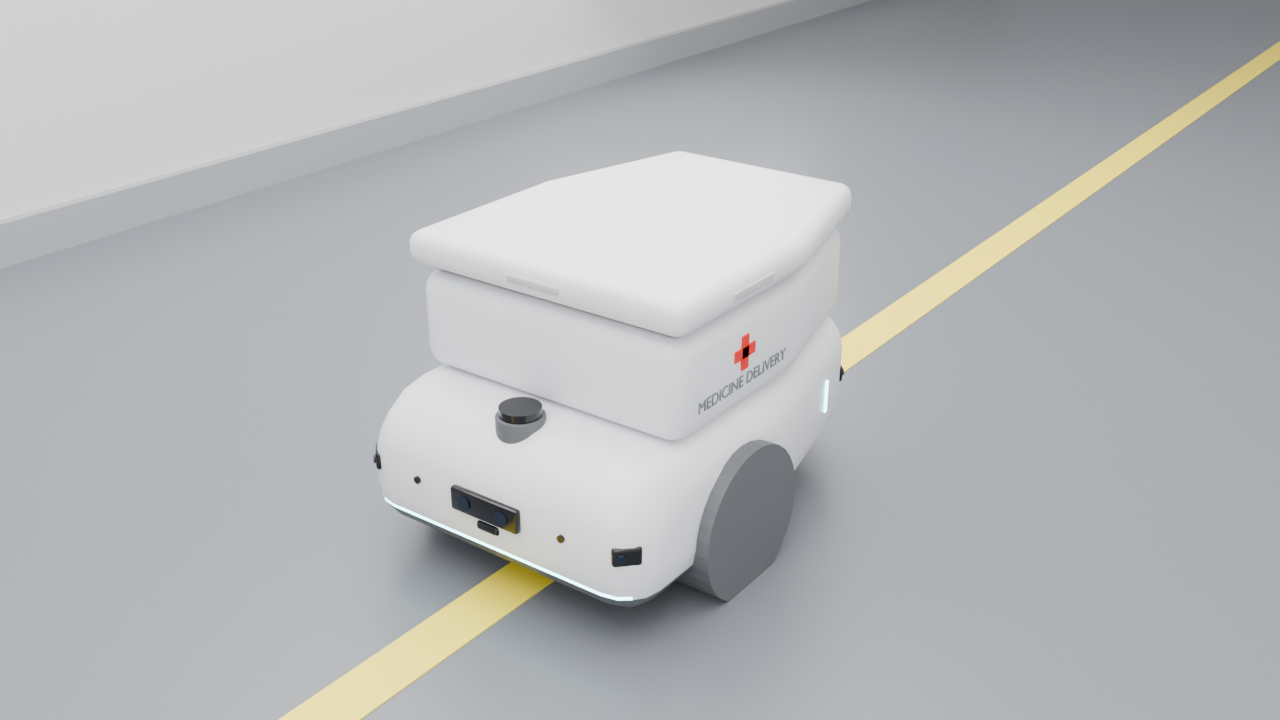
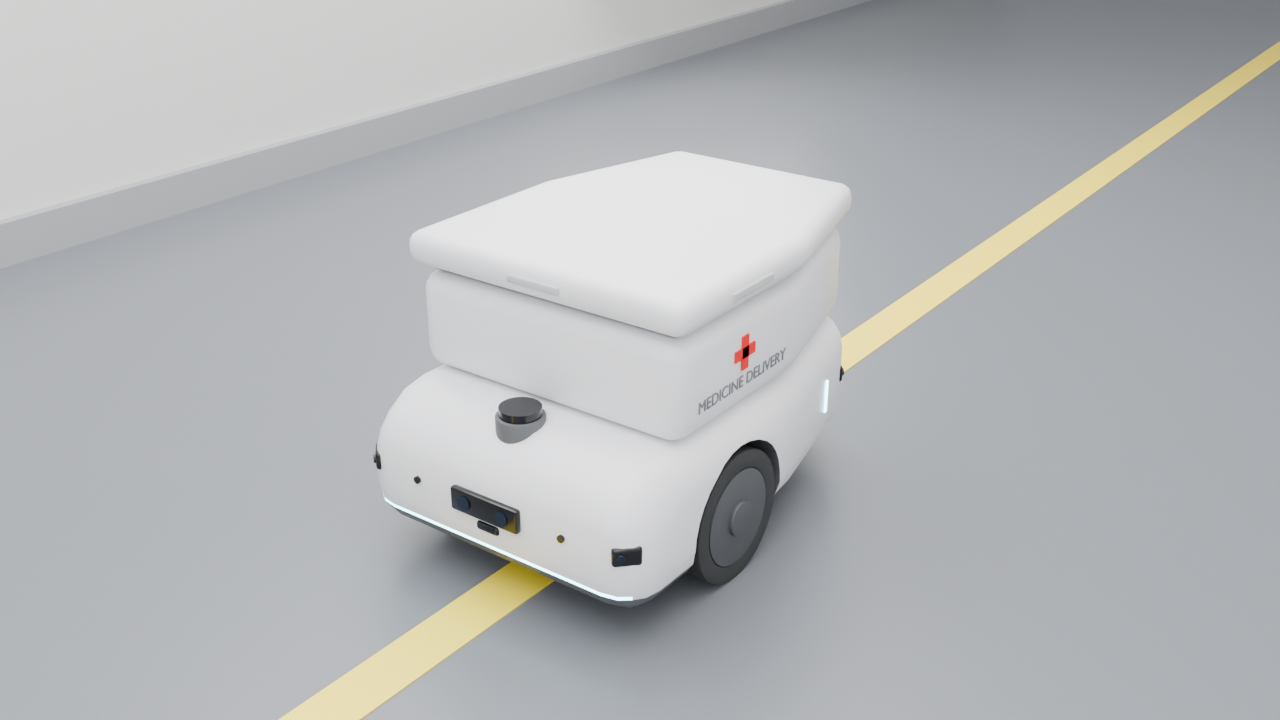
fix: render do V3 esconde os cortes booleanos que tampavam as rodas e o rodizio
O render passa a seguir o olho do viewport; as 6 vistas foram refeitas.

Changed region(s): [[0.5312, 0.6111, 0.625, 0.8556], [0.3125, 0.7333, 0.375, 0.7639]]

diff --git a/modelos-3d/render_geraldoV3.py b/modelos-3d/render_geraldoV3.py
@@ -31,6 +31,12 @@ scene = bpy.context.scene
 for o in [o for o in bpy.data.objects if o.type in ("CAMERA", "LIGHT")]:
     bpy.data.objects.remove(o)
 
+# os cortes booleanos (corte_roda, corte_rodizio) ficam com o olho desligado no viewport mas ligados no render, e
+# tampariam as rodas; o render passa a seguir o olho do viewport
+for o in bpy.data.objects:
+    if o.hide_get():
+        o.hide_render = True
+
 MATS = {}
 
 
